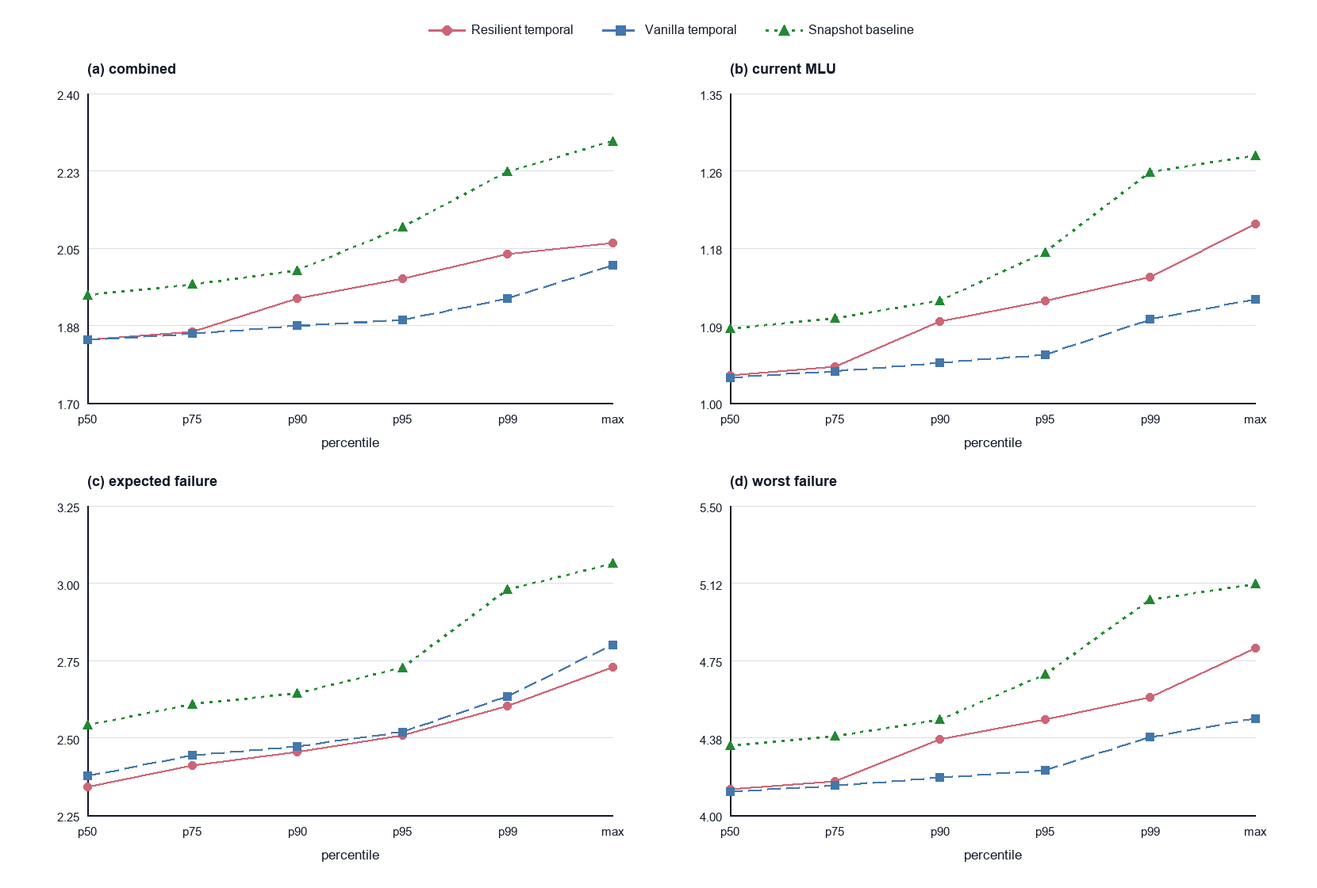
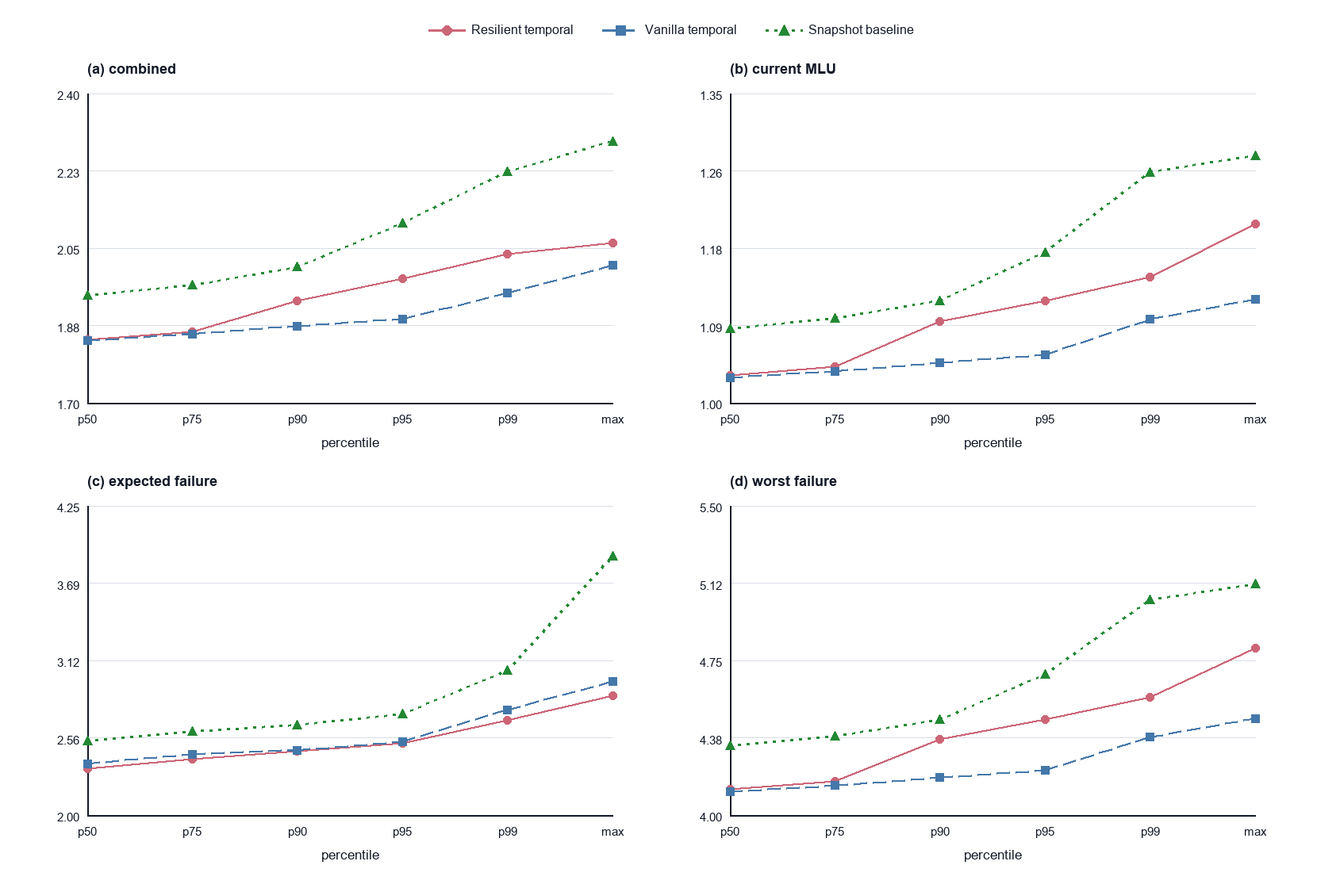
new resiliency metric

diff --git a/report.tex b/report.tex
@@ -45,14 +45,14 @@ Brown University
 
 
 \begin{abstract}
-GRATE studies temporal demand-aware WAN traffic engineering. Existing ML-based TE systems such as DOTE, TEAL, and HARP can approximate optimization-based routing decisions much faster than LP solvers, but they commonly treat each traffic demand matrix as a memoryless snapshot. We implemented a temporal extension to the HARP codebase that feeds rolling demand and topology windows into a temporal path encoder before the existing HARP routing-allocation refinement loop. Our prototype builds dynamic Abilene samples with six-timestep histories, per-timestep topology/path tensors, and Gurobi-computed optimal MLU labels for the final timestep. In our current dynamic Abilene experiment, the temporal model achieved an average normalized MLU of 1.0267 over 200 held-out samples, compared with 1.0837 for a snapshot-only HARP baseline trained and evaluated on the same final timesteps. A resilience-trained temporal checkpoint improved probability-weighted expected future-failure MLU over both baselines, at a small cost to current-step MLU. In an adapted five-model comparison on the same held-out samples, temporal HARP remained strongest on current MLU and the default combined resilience metric, while DOTE was the closest non-HARP baseline and TEAL struggled in this dynamic-topology setting. These results show that the temporal pipeline is implemented end-to-end and can learn routing allocations close to the LP optimum on this dynamic Abilene split, while also motivating robustness-oriented metrics beyond myopic current-step MLU.
+GRATE studies temporal demand-aware WAN traffic engineering. Existing ML-based TE systems such as DOTE, TEAL, and HARP can approximate optimization-based routing decisions much faster than LP solvers, but they commonly treat each traffic demand matrix as a memoryless snapshot. We introduce GRATE (Generalizable Reactive W(An N traffic engineering), a temporal extension to HARP that feeds rolling demand and topology windows into a temporal path encoder before the existing HARP routing-allocation refinement loop. Our prototype builds dynamic Abilene samples with six-timestep histories, per-timestep topology/path tensors, and Gurobi-computed optimal MLU labels for the final timestep. In our current dynamic Abilene experiment, the temporal model achieved an average normalized MLU of 1.0267 over 200 held-out samples, compared with 1.0837 for a snapshot-only HARP baseline trained and evaluated on the same final time steps. A resilience-trained temporal checkpoint improved probability-weighted expected future-failure MLU over both baselines, at a small cost to current-step MLU. In an adapted five-model comparison on the same held-out samples, temporal HARP remained strongest on current MLU and the default combined resilience metric, while DOTE was the closest non-HARP baseline and TEAL struggled in this dynamic-topology setting. These results show that the temporal pipeline is implemented end-to-end and can learn routing allocations close to the LP optimum on this dynamic Abilene split, while also motivating robustness-oriented metrics beyond myopic current-step MLU.
 \end{abstract}
 
 \section{Introduction}
 
 WAN traffic engineering decides how traffic should be split across network paths so that operators can use network capacity efficiently and avoid congestion. Classical TE formulations solve an optimization problem for each traffic matrix, but solver latency can make this difficult to use for rapid adaptation. Recent ML-based TE systems instead learn to approximate solver outputs or solver-quality objectives, creating an opportunity to make TE decisions at much lower latency.
 
-A key assumption of all of these existing TE systems is that they treat each problem as an independent, memoryless snapshot: their models produce allocations based on only the \emph{current} traffic demand matrix. Prior work has shown that real-world WAN traffic demand matrices exhibit strong temporal structure and low intrinsic dimensionality \cite{lakhina2004structural}, 
+A key assumption of all of these existing TE systems is that they treat each problem as an independent, memory less snapshot: their models produce allocations based on only the \emph{current} traffic demand matrix. Prior work has shown that real-world WAN traffic demand matrices exhibit strong temporal structure and low intrinsic dimensionality \cite{lakhina2004structural}, 
 yet none of these TE models exploit this feature.
 
 GRATE explores whether a HARP-style neural TE system can use short histories of demand and topology information rather than only the current demand matrix. The project is final-report work rather than a proposal: we implemented a temporal HARP path in the codebase, generated a dynamic Abilene dataset, added Gurobi optimal labels for the final timestep of each temporal sample, trained a prototype model, and evaluated that prototype on held-out samples.
@@ -61,7 +61,7 @@ GRATE explores whether a HARP-style neural TE system can use short histories of 
 
 Traditionally, Wide-area network (WAN) traffic engineering (TE) strategies use linear programming (LP) solvers to determine optimal flows for how traffic demands are routed. Objectives for optimization include maximizing flow rate or minimizing maximum link utilization (MLU). Recent work such as DOTE \cite{perry2023dote}, TEAL \cite{Teal}, and HARP \cite{Harp} use machine learning to \emph{approximate} optimal solutions for TE much faster than LP solvers. This unlocks real-time adaptation to changing network conditions.
 
-DOTE directly optimizes for MLU by creating a closed-form approximate loss function for MLU based only on previous demands. The authors make the assumption / observation that the current MLU will approximate the average of the previous (calcualted) MLUs, and thus can construct a gradient and loss function. DOTE is especially relevant to us since it reframes predictive WAN TE by using learning to improve TE under demand uncertainty. DOTE is constructed as a feed-forward DNN that takes a representation of the previous traffic demands and network topology (including link capacities) and produces TE splits. A key observation to make is that DOTE must train on a specific topology and, since the input is directly fed into a linear layer, it is sensitive to changes to topology and/or input. However, DOTE \textit{does} consider a series of previous timesteps / snapshots of the network, and is the only such model we studied that does so. 
+DOTE directly optimizes for MLU by creating a closed-form approximate loss function for MLU based only on previous demands. The authors make the assumption / observation that the current MLU will approximate the average of the previous (calculated) MLUs, and thus can construct a gradient and loss function. DOTE is especially relevant to us since it re-frames predictive WAN TE by using learning to improve TE under demand uncertainty. DOTE is constructed as a feed-forward DNN that takes a representation of the previous traffic demands and network topology (including link capacities) and produces TE splits. A key observation to make is that DOTE must train on a specific topology and, since the input is directly fed into a linear layer, it is sensitive to changes to topology and/or input. However, DOTE \textit{does} consider a series of previous time steps / snapshots of the network, and is the only such model we studied that does so. 
 
 TEAL is a work that expands upon DOTE by directly modeling the network topology and combining multiple ML-based approaches. First, their FlowGNN, which is a mixed GNN / DNN, learns embeddings for the edges and paths in the network, encoding link capacities and demands. They then employ a multi-agent RL step that learns a global policy network using an advanced version of the COMA algorithm \cite{foerster2018counterfactual}. Compared to DOTE, TEAL is able to learn higher-dimensional features about the network, and performs better than DOTE in terms of MLU and inference speed. Still, TEAL does not model temporal changes to the network, and is still sensitive to changes to the topology or input.
 
@@ -188,16 +188,16 @@ Figure~\ref{fig:current-mlu-percentiles} shows the same current-step comparison 
 
 As a debugging reference point, before correcting the padding-mask handling in the temporal path encoder, the saved model collapsed to uniform path splits and produced an average normalized MLU of approximately 4.3037 on the same held-out slice. The corrected result therefore reflects an actual learned routing policy rather than an equal-split fallback.
 
-Because the current-step MLU gap between temporal HARP and the snapshot baseline is modest, we also evaluated a robustness-oriented training objective. The resilient temporal checkpoint uses the same architecture as temporal HARP, but its loss combines current normalized MLU with a future-failure stress term. The stress term keeps the learned final-step split fixed and evaluates single-link degradation scenarios on the final topology, using recent failure history to weight the expected degradation term. This objective is not a post-failure LP reoptimization; it is a differentiable way to bias the learned allocation toward routes that remain usable under likely near-future link degradation.
+Because the current-step MLU gap between temporal HARP and the snapshot baseline is modest, we also evaluated a robustness-oriented training objective. The resilient temporal checkpoint uses the same architecture as temporal HARP, but its loss combines current normalized MLU with a future-failure stress term. The stress term keeps the learned final-step split fixed and evaluates single-link degradation scenarios on the final topology. For the expected-degradation term, each final link's recent binary failure history is fit with a recency-weighted linear trend and extrapolated one timestep forward, with a small smoothing prior for unseen links. This objective is not a post-failure LP reoptimization; it is a differentiable way to bias the learned allocation toward routes that remain usable under likely near-future link degradation.
 
 \begin{center}
 \begin{tabular}{lrrr}
 \hline
 Metric & Res. temp. & Temp. & Snapshot \\
 \hline
-Combined & 1.8480 & 1.8355 & 1.9375 \\
+Combined & 1.8473 & 1.8347 & 1.9372 \\
 Current MLU & 1.0399 & 1.0287 & 1.0837 \\
-Expected failure & 2.3058 & 2.3391 & 2.4964 \\
+Expected failure & 2.2999 & 2.3331 & 2.4936 \\
 Worst failure & 4.1595 & 4.1149 & 4.3346 \\
 \hline
 \end{tabular}
@@ -212,7 +212,7 @@ Figure~\ref{fig:resilience-percentiles} breaks out the percentile profiles for t
 \label{fig:resilience-percentiles}
 \end{figure*}
 
-The three-way comparison shows a real tradeoff. Vanilla temporal HARP remains best on current MLU, worst-link degradation, and the default combined score. However, the resilient temporal checkpoint achieves the best expected future-failure metric: it improves expected-failure normalized MLU by 7.64\% over the snapshot baseline and by 1.43\% over vanilla temporal HARP. In exchange, it gives up about 1.08\% on current MLU relative to vanilla temporal HARP. This suggests that the resilience objective changes the learned allocation policy toward probability-weighted future-failure robustness rather than uniformly improving every MLU-derived metric.
+The three-way comparison shows a real tradeoff. Vanilla temporal HARP remains best on current MLU, worst-link degradation, and the default combined score. However, the resilient temporal checkpoint achieves the best expected future-failure metric: it improves expected-failure normalized MLU by 7.77\% over the snapshot baseline and by 1.42\% over vanilla temporal HARP. In exchange, it gives up about 1.08\% on current MLU relative to vanilla temporal HARP. This suggests that the resilience objective changes the learned allocation policy toward probability-weighted future-failure robustness rather than uniformly improving every MLU-derived metric.
 
 We then extended the comparison to include DOTE and TEAL under the same dynamic Abilene held-out slice and the same MLU-resilience evaluator. These rows should not be read as exact reproductions of the original papers' native experimental setups: the DOTE row uses the MAXUTIL multilayer perceptron with input and output dimensions changed for the 12-node, 4-path Abilene samples, while the TEAL row uses the FlowGNN actor structure with each sample's final topology graph. Both models were trained on samples 0--800 and evaluated on samples 800--1000, matching the HARP split.
 
@@ -222,11 +222,11 @@ We then extended the comparison to include DOTE and TEAL under the same dynamic 
 \hline
 Model & Current & Combined & Exp. fail. & Worst fail. \\
 \hline
-Vanilla temporal & 1.0287 & 1.8355 & 2.3391 & 4.1149 \\
-Resilient temporal & 1.0399 & 1.8480 & 2.3058 & 4.1595 \\
-Snapshot HARP & 1.0837 & 1.9375 & 2.4964 & 4.3346 \\
-DOTE & 1.1545 & 2.0562 & 2.5960 & 4.6179 \\
-TEAL & 2.7472 & 4.7729 & 5.2167 & 10.9889 \\
+Vanilla temporal & 1.0287 & 1.8347 & 2.3331 & 4.1149 \\
+Resilient temporal & 1.0399 & 1.8473 & 2.2999 & 4.1595 \\
+Snapshot HARP & 1.0837 & 1.9372 & 2.4936 & 4.3346 \\
+DOTE & 1.1545 & 2.0560 & 2.5941 & 4.6179 \\
+TEAL & 2.7472 & 4.7755 & 5.2372 & 10.9889 \\
 \hline
 \end{tabular}
 \caption{Average normalized metrics for the five-model dynamic Abilene comparison. Lower is better for all metrics.}
@@ -276,3 +276,4 @@ GRATE investigates whether temporal structure in WAN demand matrices can improve
 
 
 \end{document}
+

diff --git a/utils/resilience_utils.py b/utils/resilience_utils.py
@@ -9,32 +9,49 @@ def _canonical_edge(u, v):
     return (u, v) if u <= v else (v, u)
 
 
+def _normalize_risk(risk):
+    risk_sum = risk.sum()
+    if float(risk_sum.detach().cpu()) <= 0.0:
+        num_edges = risk.numel()
+        return torch.full(
+            (num_edges,),
+            1.0 / max(num_edges, 1),
+            device=risk.device,
+            dtype=risk.dtype,
+        )
+
+    return risk / risk_sum.clamp_min(1e-12)
+
+
 def final_edge_risk_from_history(
     sample,
     final_edge_index,
-    prior=1.0,
+    prior=1e-3,
     recency_power=2.0,
 ):
     """
-    Build per-directed-edge scenario probabilities from the sample's failure
-    history.
+    Extrapolate per-directed-edge scenario probabilities from failure history.
 
     Dynamic Abilene stores failures as undirected edges in
     sample["metadata"]["failed_by_t"]. We map those historical failures onto
-    the directed edges present at the final timestep. A positive prior keeps
-    every final link possible even when the short history contains no failures.
+    the directed edges present at the final timestep and build a binary history
+    for each final link. The next-step failure score is a recency-weighted
+    one-step linear extrapolation of that binary sequence, rather than an
+    average over all link-failure scenarios. A small positive prior keeps every
+    final link possible when the short history contains no usable signal.
     """
     num_edges = final_edge_index.shape[1]
     device = final_edge_index.device
     dtype = torch.float32
 
-    risk = torch.full((num_edges,), float(prior), device=device, dtype=dtype)
+    prior = max(float(prior), 0.0)
+    risk = torch.full((num_edges,), prior, device=device, dtype=dtype)
 
     metadata = sample.get("metadata", {})
     failed_by_t = metadata.get("failed_by_t", [])
 
     if not failed_by_t:
-        return risk / risk.sum().clamp_min(1e-12)
+        return _normalize_risk(risk)
 
     final_edges = [
         _canonical_edge(final_edge_index[0, i].item(), final_edge_index[1, i].item())
@@ -42,13 +59,13 @@ def final_edge_risk_from_history(
     ]
 
     num_timesteps = len(failed_by_t)
+    failure_history = torch.zeros(
+        (num_edges, num_timesteps),
+        device=device,
+        dtype=dtype,
+    )
 
     for t, failed_edges in enumerate(failed_by_t):
-        if num_timesteps == 1:
-            recency = 1.0
-        else:
-            recency = ((t + 1) / num_timesteps) ** recency_power
-
         failed_set = set()
         for edge in failed_edges:
             if len(edge) != 2:
@@ -60,9 +77,30 @@ def final_edge_risk_from_history(
 
         for edge_idx, final_edge in enumerate(final_edges):
             if final_edge in failed_set:
-                risk[edge_idx] += recency
+                failure_history[edge_idx, t] = 1.0
 
-    return risk / risk.sum().clamp_min(1e-12)
+    if num_timesteps == 1:
+        extrapolated = failure_history[:, 0]
+    else:
+        time = torch.arange(num_timesteps, device=device, dtype=dtype)
+        weights = ((time + 1.0) / float(num_timesteps)).pow(float(recency_power))
+        weights = weights / weights.sum().clamp_min(1e-12)
+
+        x_mean = (weights * time).sum()
+        centered_time = time - x_mean
+        y_mean = (failure_history * weights.view(1, -1)).sum(dim=-1)
+        covariance = (
+            failure_history - y_mean.view(-1, 1)
+        ).mul(weights.view(1, -1)).mul(centered_time.view(1, -1)).sum(dim=-1)
+        variance = (weights * centered_time.pow(2)).sum().clamp_min(1e-12)
+        slope = covariance / variance
+
+        next_time = torch.tensor(float(num_timesteps), device=device, dtype=dtype)
+        extrapolated = y_mean + slope * (next_time - x_mean)
+
+    risk = risk + extrapolated.clamp(0.0, 1.0)
+
+    return _normalize_risk(risk)
 
 
 def select_scenario_edges(edge_probs, scenario_top_k=0):
@@ -132,7 +170,7 @@ def resilience_loss_from_details(
     resilience_weight=0.25,
     worst_case_weight=0.5,
     failure_capacity_fraction=0.25,
-    risk_prior=1.0,
+    risk_prior=1e-3,
     risk_recency_power=2.0,
     scenario_top_k=0,
 ):

diff --git a/run_resilient_harp_dynamic.py b/run_resilient_harp_dynamic.py
@@ -57,7 +57,7 @@ def parse_resilience_args():
     parser.add_argument("--resilience_weight", type=float, default=0.25)
     parser.add_argument("--worst_case_weight", type=float, default=0.5)
     parser.add_argument("--failure_capacity_fraction", type=float, default=0.25)
-    parser.add_argument("--risk_prior", type=float, default=1.0)
+    parser.add_argument("--risk_prior", type=float, default=1e-3)
     parser.add_argument("--risk_recency_power", type=float, default=2.0)
     parser.add_argument(
         "--scenario_top_k",
@@ -390,6 +390,7 @@ def main():
         f"{args.worst_case_weight} * worst_failure_norm)"
     )
     print(f"Failure capacity fraction: {args.failure_capacity_fraction}")
+    print("Risk model: recency-weighted one-step failure extrapolation")
     print(f"Risk prior: {args.risk_prior}")
     print(f"Risk recency power: {args.risk_recency_power}")
     print(f"Scenario top-k: {args.scenario_top_k if args.scenario_top_k > 0 else 'all'}")

diff --git a/scripts/compare_all_five_dynamic_abilene.py b/scripts/compare_all_five_dynamic_abilene.py
@@ -37,7 +37,7 @@ RESILIENCE_ARGS = SimpleNamespace(
     resilience_weight=0.25,
     worst_case_weight=0.5,
     failure_capacity_fraction=0.25,
-    risk_prior=1.0,
+    risk_prior=1e-3,
     risk_recency_power=2.0,
     scenario_top_k=0,
 )

diff --git a/README.md b/README.md
@@ -204,8 +204,10 @@ where:
   degradation scenarios, normalized by the current Gurobi optimum.
 - `worst_failure_norm` is the worst selected single-link degradation scenario,
   also normalized by the current Gurobi optimum.
-- Scenario probabilities come from recent failure history in
-  `sample["metadata"]["failed_by_t"]` plus a uniform prior.
+- Scenario probabilities are extrapolated from recent failure history in
+  `sample["metadata"]["failed_by_t"]`: each final link's binary failure
+  history is fit with a recency-weighted linear trend and projected one
+  timestep forward, then a small smoothing prior keeps unseen links possible.
 - `failure_capacity_fraction` controls the severity. The default `0.25` means
   one scenario link keeps 25 percent of its original capacity. This is a
   differentiable stress metric, not a post-failure reoptimization LP.
@@ -314,17 +316,17 @@ Observed three-way resilience comparison on the 200-sample held-out slice
 Average normalized metrics. Lower is better.
 
 metric              resilient_temporal    vanilla_temporal    snapshot_baseline
-combined                      1.848040            1.835491             1.937549
+combined                      1.847302            1.834735             1.937188
 current                       1.039879            1.028735             1.083662
-expected_failure              2.305775            2.339113             2.496445
+expected_failure              2.299872            2.333068             2.493552
 worst_failure                 4.159516            4.114938             4.334649
 
 Pairwise improvement percentages. Positive means the left model is better.
 
 metric              resilient vs baseline    resilient vs temporal    temporal vs baseline
-combined                            4.62%                   -0.68%                   5.27%
+combined                            4.64%                   -0.68%                   5.29%
 current                             4.04%                   -1.08%                   5.07%
-expected_failure                    7.64%                    1.43%                   6.30%
+expected_failure                    7.77%                    1.42%                   6.44%
 worst_failure                       4.04%                   -1.08%                   5.07%
 ```
 
@@ -408,40 +410,40 @@ Observed five-model results on the 200-sample dynamic Abilene held-out slice:
 Average normalized metrics. Lower is better.
 
 model                 combined    current    expected_failure    worst_failure
-vanilla_temporal       1.835491   1.028735            2.339113          4.114938
-resilient_temporal     1.848040   1.039879            2.305775          4.159516
-snapshot_baseline      1.937549   1.083662            2.496445          4.334649
-DOTE                   2.056219   1.154477            2.596030          4.617908
-TEAL                   4.772942   2.747234            5.216726         10.988937
+vanilla_temporal       1.834735   1.028735            2.333068          4.114938
+resilient_temporal     1.847302   1.039879            2.299872          4.159516
+snapshot_baseline      1.937188   1.083662            2.493552          4.334649
+DOTE                   2.055982   1.154477            2.594128          4.617908
+TEAL                   4.775506   2.747234            5.237235         10.988937
 ```
 
 Percentile details:
 
 ```text
 model                 metric              average     median        p95        max
-vanilla_temporal      combined           1.835491   1.842293   1.889381   2.011178
+vanilla_temporal      combined           1.834735   1.840823   1.891345   2.011178
 vanilla_temporal      current            1.028735   1.028435   1.055192   1.117073
-vanilla_temporal      expected_failure   2.339113   2.376451   2.520195   2.801129
+vanilla_temporal      expected_failure   2.333068   2.373963   2.558084   2.971927
 vanilla_temporal      worst_failure      4.114938   4.113741   4.220767   4.468291
 
-resilient_temporal    combined           1.848040   1.842995   1.986221   2.062167
+resilient_temporal    combined           1.847302   1.842103   1.986221   2.062167
 resilient_temporal    current            1.039879   1.031396   1.118162   1.202261
-resilient_temporal    expected_failure   2.305775   2.340888   2.521950   2.729110
+resilient_temporal    expected_failure   2.299872   2.340888   2.523661   2.870998
 resilient_temporal    worst_failure      4.159516   4.125583   4.472648   4.809043
 
-snapshot_baseline     combined           1.937549   1.943837   2.106518   2.292293
+snapshot_baseline     combined           1.937188   1.943418   2.106759   2.292293
 snapshot_baseline     current            1.083662   1.083930   1.172289   1.279974
-snapshot_baseline     expected_failure   2.496445   2.541710   2.727249   3.062903
+snapshot_baseline     expected_failure   2.493552   2.539322   2.744796   3.882090
 snapshot_baseline     worst_failure      4.334649   4.335719   4.689154   5.119896
 
-DOTE                  combined           2.056219   2.005457   2.549250   3.508076
+DOTE                  combined           2.055982   2.005457   2.549250   3.508076
 DOTE                  current            1.154477   1.114250   1.485434   2.110486
-DOTE                  expected_failure   2.596030   2.610985   2.882881   3.519255
+DOTE                  expected_failure   2.594128   2.614672   2.918315   3.519255
 DOTE                  worst_failure      4.617908   4.457002   5.941737   8.441945
 
-TEAL                  combined           4.772942   4.718507   7.004472   9.006591
+TEAL                  combined           4.775506   4.713036   7.004472   9.006591
 TEAL                  current            2.747234   2.701462   4.128419   5.417578
-TEAL                  expected_failure   5.216726   5.311987   6.281948   8.237237
+TEAL                  expected_failure   5.237235   5.312802   6.380446   9.575958
 TEAL                  worst_failure     10.988937  10.805847  16.513678  21.670313
 ```
 

diff --git a/figures/dynamic_abilene/all_five_dynamic_abilene_percentiles.md b/figures/dynamic_abilene/all_five_dynamic_abilene_percentiles.md
@@ -7,16 +7,16 @@
 | Current | Snapshot HARP | 1.0837 | 1.0839 | 1.1157 | 1.1705 | 1.2611 | 1.2800 |
 | Current | DOTE | 1.1545 | 1.1141 | 1.2087 | 1.4545 | 1.9457 | 2.1105 |
 | Current | TEAL | 2.7472 | 2.6999 | 2.9902 | 4.0492 | 5.0429 | 5.4176 |
-| Combined | Vanilla temporal | 1.8355 | 1.8421 | 1.8743 | 1.8874 | 1.9355 | 2.0112 |
-| Combined | Resilient temporal | 1.8480 | 1.8429 | 1.9366 | 1.9809 | 2.0359 | 2.0622 |
-| Combined | Snapshot HARP | 1.9375 | 1.9438 | 1.9997 | 2.0978 | 2.2233 | 2.2923 |
-| Combined | DOTE | 2.0562 | 2.0051 | 2.1513 | 2.5282 | 3.2793 | 3.5081 |
-| Combined | TEAL | 4.7729 | 4.7158 | 5.1784 | 6.8879 | 8.3041 | 9.0066 |
-| Expected failure | Vanilla temporal | 2.3391 | 2.3758 | 2.4718 | 2.5190 | 2.6332 | 2.8011 |
-| Expected failure | Resilient temporal | 2.3058 | 2.3400 | 2.4540 | 2.5087 | 2.6020 | 2.7291 |
-| Expected failure | Snapshot HARP | 2.4964 | 2.5404 | 2.6438 | 2.7269 | 2.9794 | 3.0629 |
-| Expected failure | DOTE | 2.5960 | 2.6109 | 2.7736 | 2.8606 | 3.0002 | 3.5193 |
-| Expected failure | TEAL | 5.2167 | 5.3116 | 5.6282 | 6.1130 | 7.0430 | 8.2372 |
+| Combined | Vanilla temporal | 1.8347 | 1.8407 | 1.8737 | 1.8895 | 1.9479 | 2.0112 |
+| Combined | Resilient temporal | 1.8473 | 1.8420 | 1.9311 | 1.9809 | 2.0359 | 2.0622 |
+| Combined | Snapshot HARP | 1.9372 | 1.9433 | 2.0072 | 2.1065 | 2.2233 | 2.2923 |
+| Combined | DOTE | 2.0560 | 2.0051 | 2.1513 | 2.5282 | 3.2793 | 3.5081 |
+| Combined | TEAL | 4.7755 | 4.7130 | 5.2665 | 6.8879 | 8.3041 | 9.0066 |
+| Expected failure | Vanilla temporal | 2.3331 | 2.3732 | 2.4718 | 2.5330 | 2.7656 | 2.9719 |
+| Expected failure | Resilient temporal | 2.2999 | 2.3400 | 2.4626 | 2.5227 | 2.6912 | 2.8710 |
+| Expected failure | Snapshot HARP | 2.4936 | 2.5392 | 2.6559 | 2.7349 | 3.0516 | 3.8821 |
+| Expected failure | DOTE | 2.5941 | 2.6134 | 2.7756 | 2.8976 | 3.2463 | 3.5193 |
+| Expected failure | TEAL | 5.2372 | 5.3125 | 5.6343 | 6.3333 | 8.2413 | 9.5760 |
 | Worst failure | Vanilla temporal | 4.1149 | 4.1137 | 4.1814 | 4.2169 | 4.3776 | 4.4683 |
 | Worst failure | Resilient temporal | 4.1595 | 4.1252 | 4.3692 | 4.4623 | 4.5694 | 4.8090 |
 | Worst failure | Snapshot HARP | 4.3346 | 4.3356 | 4.4627 | 4.6820 | 5.0443 | 5.1199 |

diff --git a/figures/dynamic_abilene/dynamic_abilene_model_percentiles.md b/figures/dynamic_abilene/dynamic_abilene_model_percentiles.md
@@ -9,12 +9,12 @@ and snapshot baseline are compared through the same code path.
 | Current | Resilient temporal | 1.0399 | 1.0313 | 1.0923 | 1.1156 | 1.1423 | 1.2023 |
 | Current | Vanilla temporal | 1.0287 | 1.0284 | 1.0454 | 1.0542 | 1.0944 | 1.1171 |
 | Current | Snapshot baseline | 1.0837 | 1.0839 | 1.1157 | 1.1705 | 1.2611 | 1.2800 |
-| Combined | Resilient temporal | 1.8480 | 1.8429 | 1.9366 | 1.9809 | 2.0359 | 2.0622 |
-| Combined | Vanilla temporal | 1.8355 | 1.8421 | 1.8743 | 1.8874 | 1.9355 | 2.0112 |
-| Combined | Snapshot baseline | 1.9375 | 1.9438 | 1.9997 | 2.0978 | 2.2233 | 2.2923 |
-| Expected failure | Resilient temporal | 2.3058 | 2.3400 | 2.4540 | 2.5087 | 2.6020 | 2.7291 |
-| Expected failure | Vanilla temporal | 2.3391 | 2.3758 | 2.4718 | 2.5190 | 2.6332 | 2.8011 |
-| Expected failure | Snapshot baseline | 2.4964 | 2.5404 | 2.6438 | 2.7269 | 2.9794 | 3.0629 |
+| Combined | Resilient temporal | 1.8473 | 1.8420 | 1.9311 | 1.9809 | 2.0359 | 2.0622 |
+| Combined | Vanilla temporal | 1.8347 | 1.8407 | 1.8737 | 1.8895 | 1.9479 | 2.0112 |
+| Combined | Snapshot baseline | 1.9372 | 1.9433 | 2.0072 | 2.1065 | 2.2233 | 2.2923 |
+| Expected failure | Resilient temporal | 2.2999 | 2.3400 | 2.4626 | 2.5227 | 2.6912 | 2.8710 |
+| Expected failure | Vanilla temporal | 2.3331 | 2.3732 | 2.4718 | 2.5330 | 2.7656 | 2.9719 |
+| Expected failure | Snapshot baseline | 2.4936 | 2.5392 | 2.6559 | 2.7349 | 3.0516 | 3.8821 |
 | Worst failure | Resilient temporal | 4.1595 | 4.1252 | 4.3692 | 4.4623 | 4.5694 | 4.8090 |
 | Worst failure | Vanilla temporal | 4.1149 | 4.1137 | 4.1814 | 4.2169 | 4.3776 | 4.4683 |
 | Worst failure | Snapshot baseline | 4.3346 | 4.3356 | 4.4627 | 4.6820 | 5.0443 | 5.1199 |
